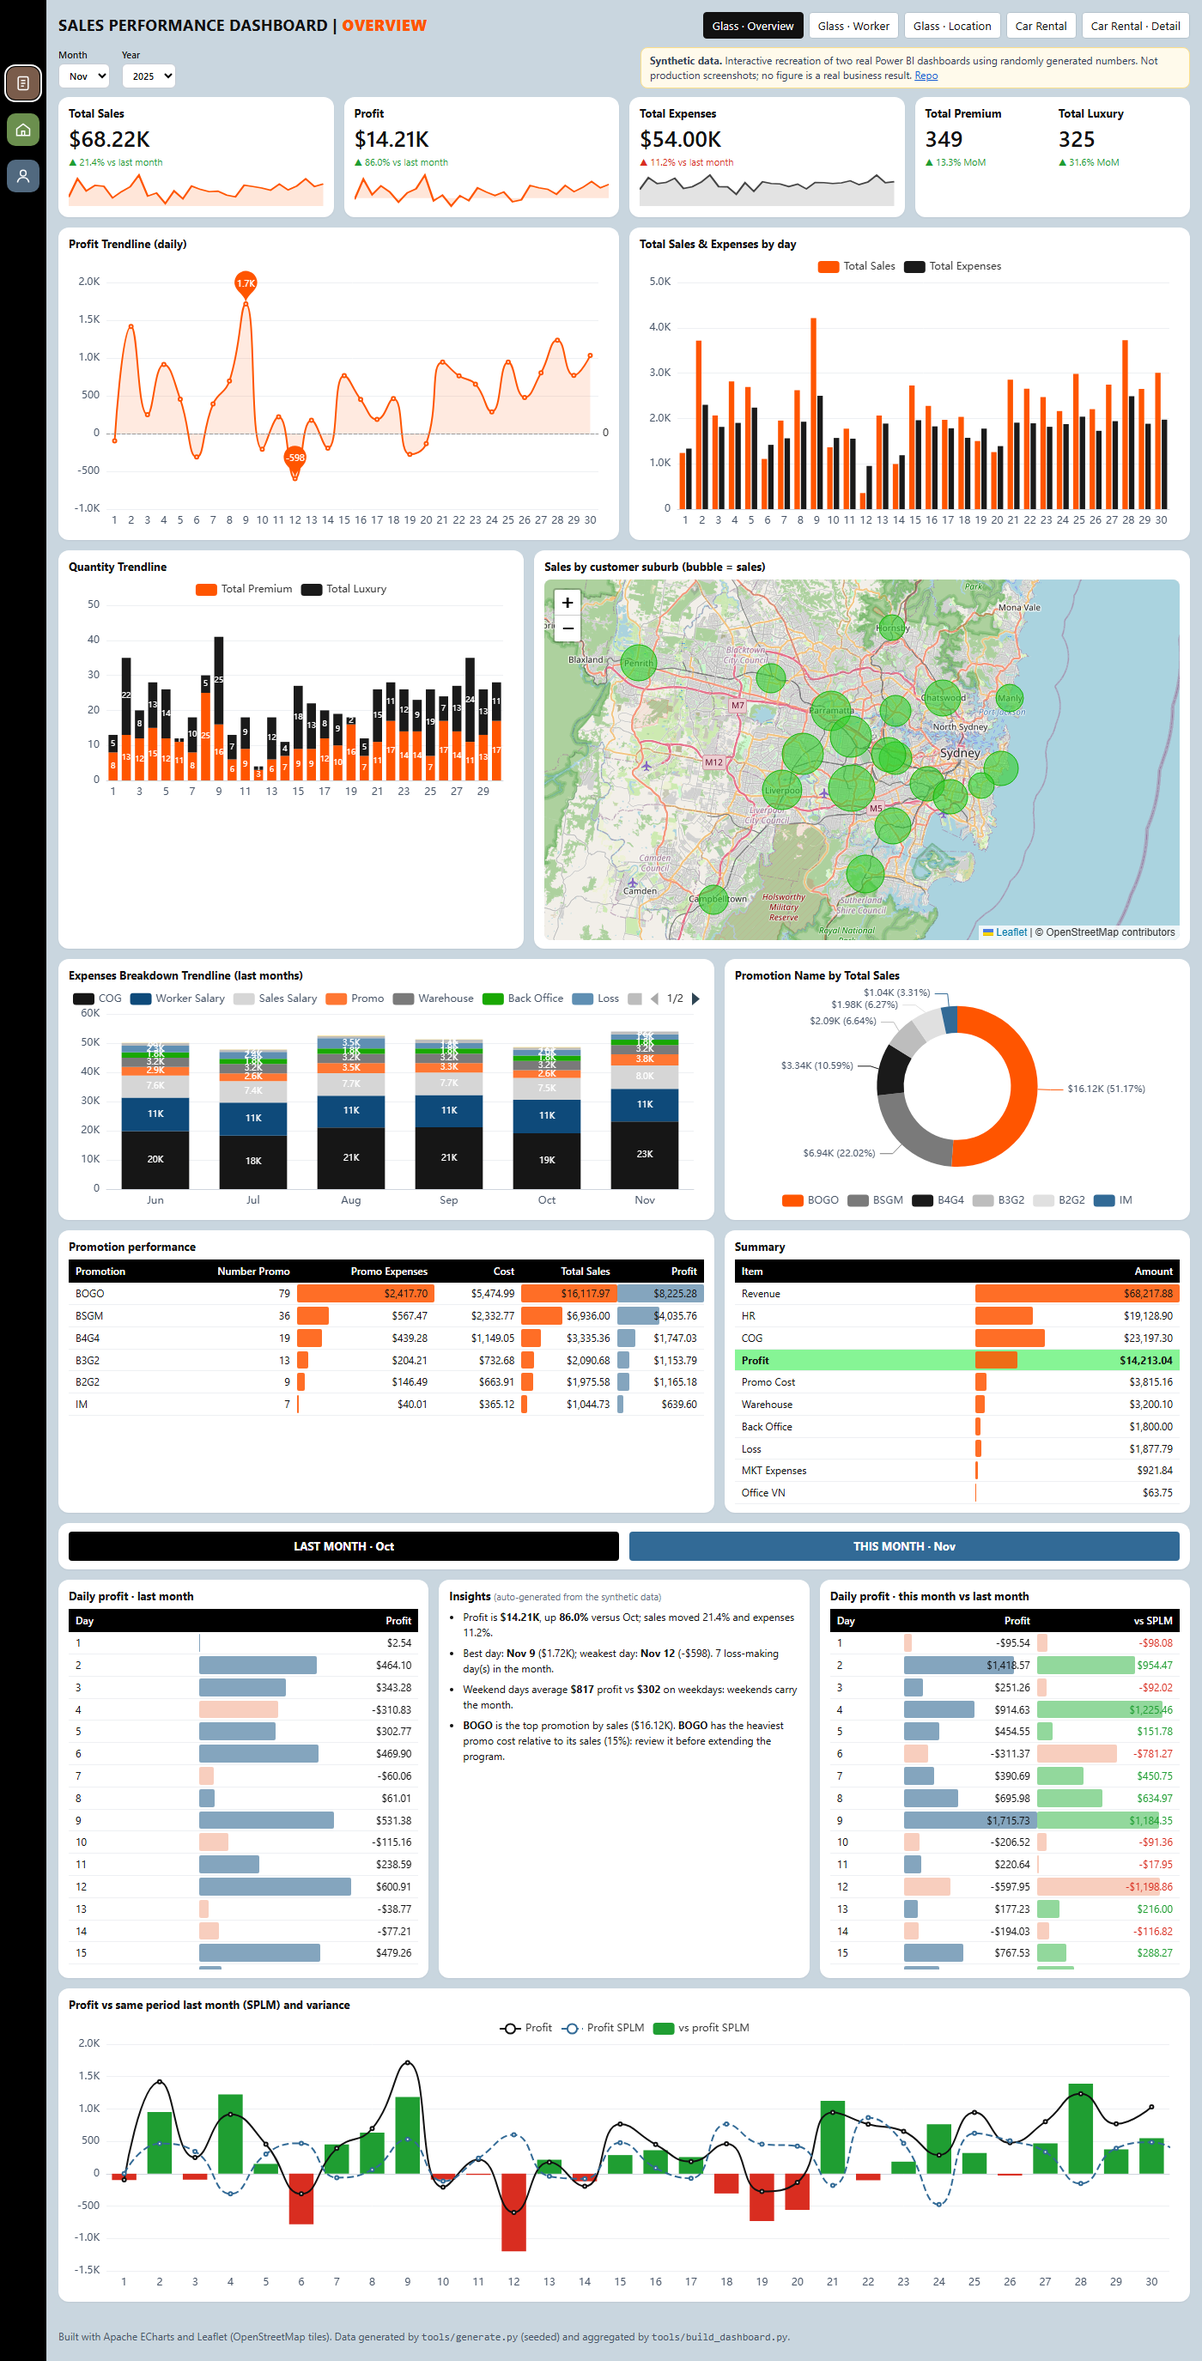
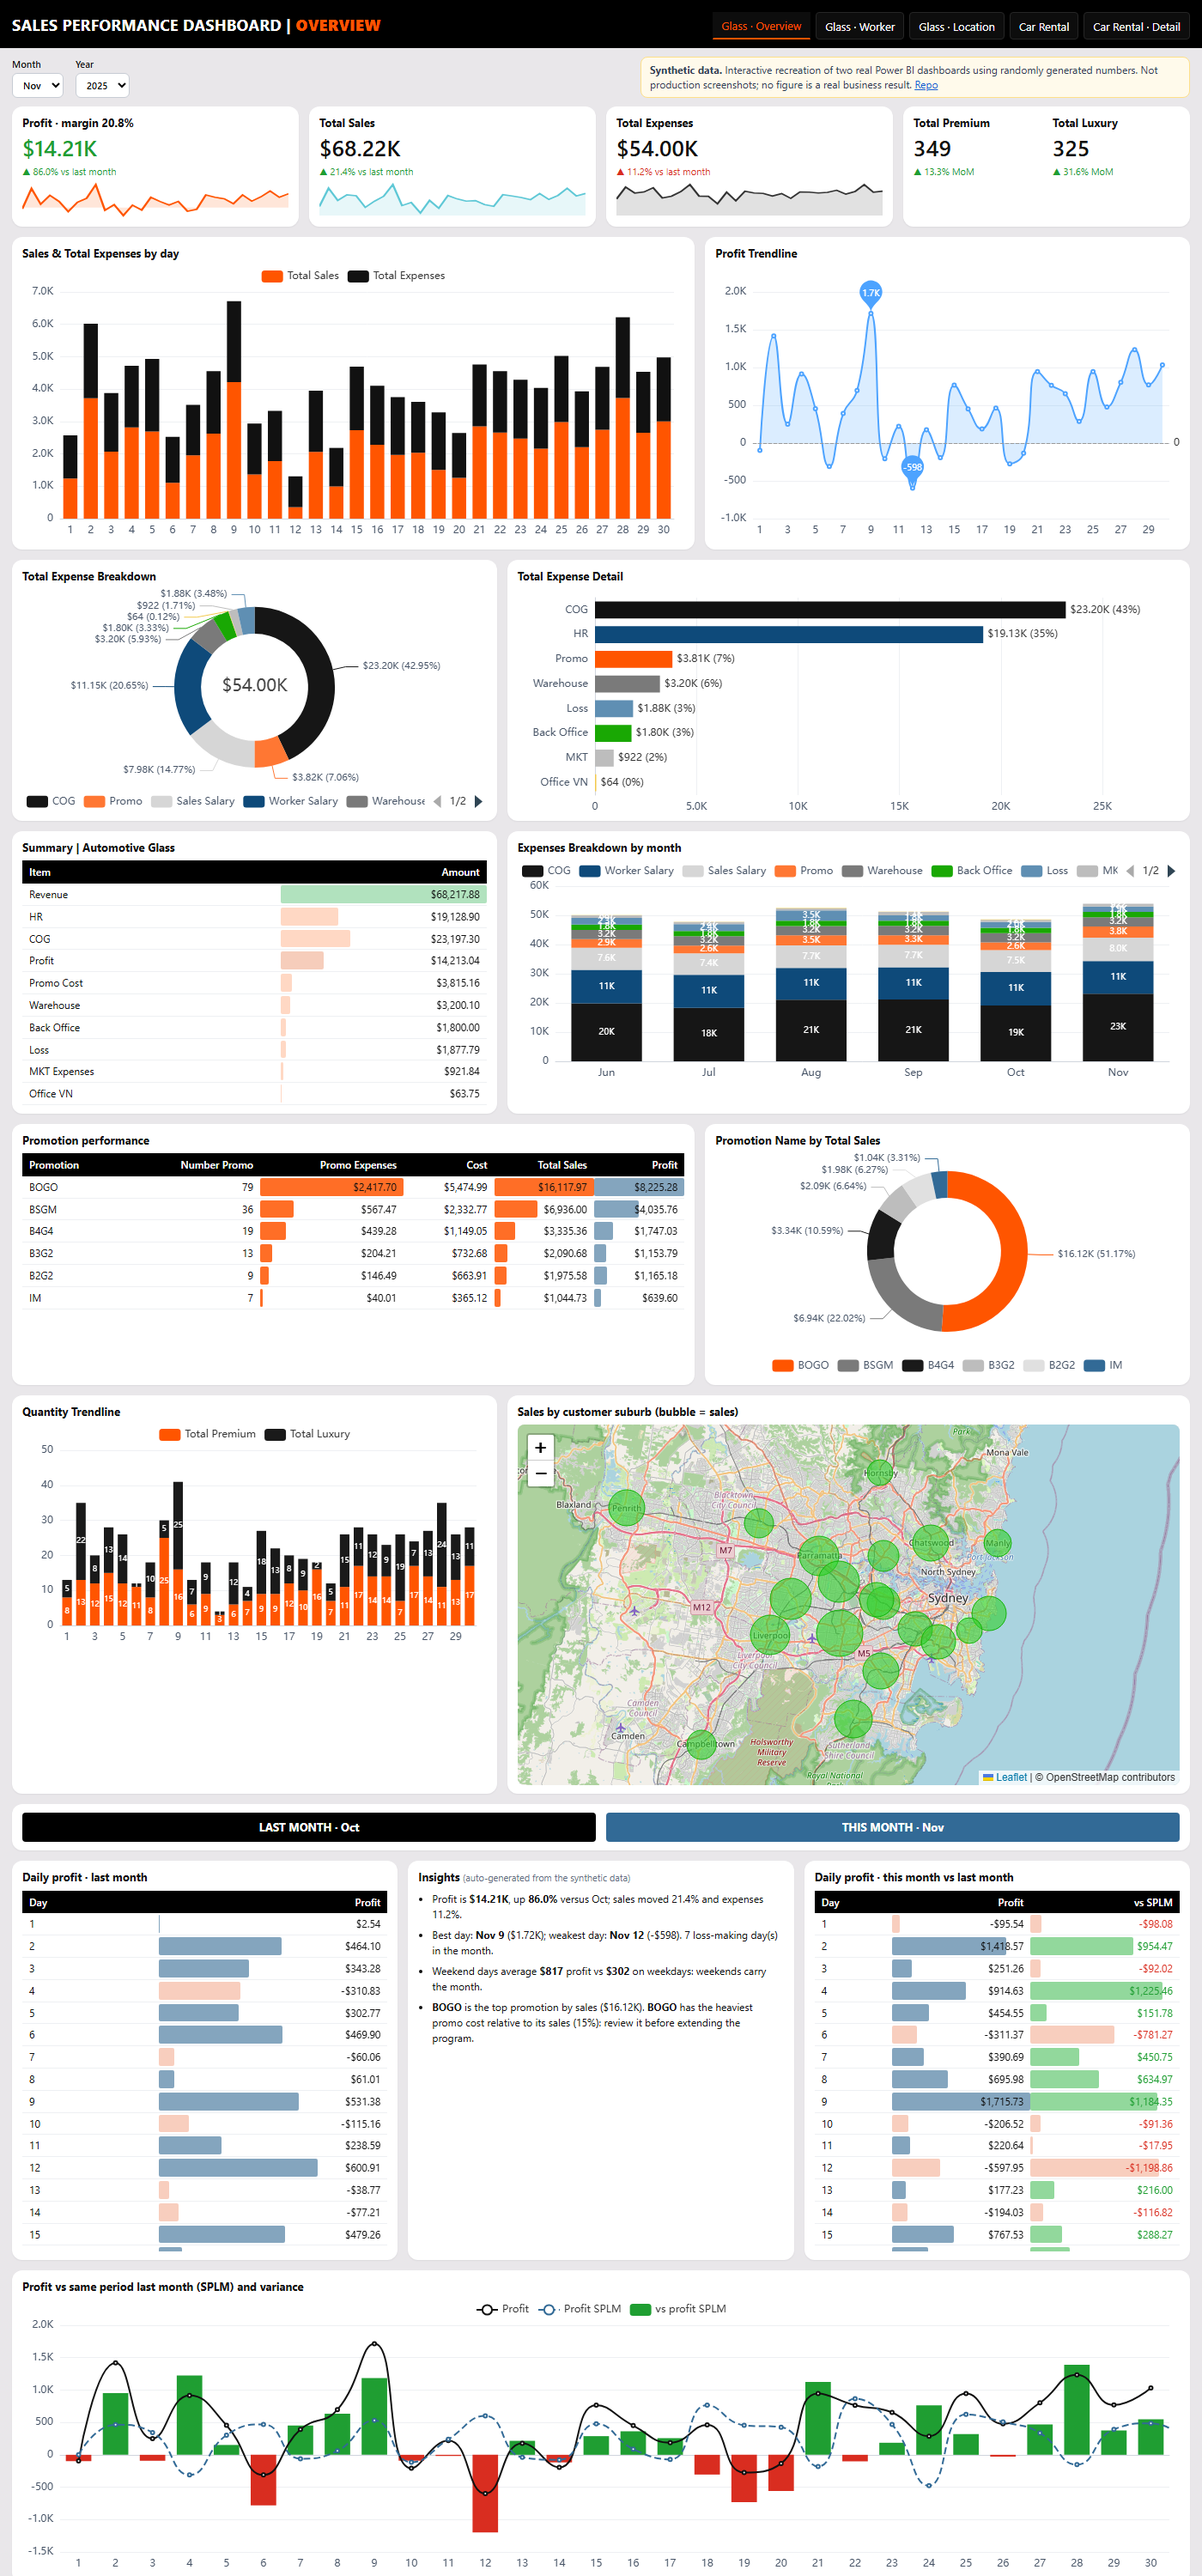
Restyle glass dashboard to the car rental standard (header, background, layout, charts)

diff --git a/docs/index.html b/docs/index.html
@@ -7,8 +7,7 @@
 <meta name="description" content="Interactive recreations of two Power BI dashboards (automotive glass service and car rental) built on synthetic data.">
 <link rel="stylesheet" href="https://cdnjs.cloudflare.com/ajax/libs/leaflet/1.9.4/leaflet.min.css">
 <style>
-  :root{--ink:#111;--muted:#667085;--line:#e4e7ec;--card:#fff;--accent:#ff5500;--page:#c9d6df;--good:#1f9e32;--bad:#d92d20}
-  body.t-car{--accent:#a666b0;--page:#e9e7ea}
+  :root{--ink:#111;--muted:#667085;--line:#e4e7ec;--card:#fff;--accent:#ff5500;--page:#e9e7ea;--good:#1f9e32;--bad:#d92d20}
   *{box-sizing:border-box}
   body{margin:0;min-height:100vh;background:var(--page);color:var(--ink);font:13px/1.4 "Segoe UI",system-ui,-apple-system,Roboto,sans-serif}
   .top{background:#000;color:#fff;padding:14px 14px 10px;display:flex;flex-wrap:wrap;gap:10px;align-items:center;justify-content:space-between}
@@ -18,16 +17,8 @@
   .nav button{background:#000;color:#fff;border:1px solid #333;border-radius:4px;padding:6px 10px;font:600 12px inherit;font-family:inherit;cursor:pointer}
   .nav button[aria-selected="true"]{color:var(--accent);border-color:var(--accent)}
   body.t-car{--accent:#c9a0dc}
-  body.t-car .nav button{background:#0d0d0d;border-color:#262626;font-size:13px}
-  body.t-car .nav button[aria-selected="true"]{border-color:#0d0d0d;border-bottom:2px solid #c9a0dc;border-radius:0}
-  .side{display:none}
-  body.t-glass .side{display:flex;position:fixed;left:0;top:0;bottom:0;width:54px;background:#000;flex-direction:column;align-items:center;gap:16px;padding-top:78px;z-index:5}
-  .side button{width:38px;height:38px;border-radius:10px;border:0;cursor:pointer;display:grid;place-items:center;padding:0}
-  .side button[aria-selected="true"]{outline:2px solid #fff;outline-offset:1px}
-  body.t-glass .top,body.t-glass .bar,body.t-glass .wrap,body.t-glass footer{margin-left:54px}
-  body.t-glass .top{background:transparent;color:#111;padding:14px 14px 0}
-  body.t-glass .nav button{background:#fff;color:#111;border-color:#b5c3cd}
-  body.t-glass .nav button[aria-selected="true"]{background:#111;color:#fff;border-color:#111}
+  .nav button{background:#0d0d0d;border-color:#262626;font-size:13px}
+  .nav button[aria-selected="true"]{border-color:#0d0d0d;border-bottom:2px solid var(--accent);border-radius:0}
   .bar{display:flex;flex-wrap:wrap;gap:14px;align-items:end;justify-content:space-between;padding:10px 14px}
   .bar .f{display:flex;gap:14px;align-items:end}
   .bar label{display:flex;flex-direction:column;font-size:11px;font-weight:600;gap:2px}
@@ -63,11 +54,6 @@
 </style>
 </head>
 <body class="t-glass">
-<div class="side" role="tablist" aria-label="Glass pages">
-  <button data-p="g-over" title="Overview" style="background:#7a5c4b" aria-selected="true"><svg width="20" height="20" viewBox="0 0 24 24" fill="none" stroke="#fff" stroke-width="1.8"><rect x="5" y="3" width="14" height="18" rx="2"/><path d="M9 8h6M9 12h6M9 16h4"/></svg></button>
-  <button data-p="g-loc" title="Location" style="background:#6b8f4e" aria-selected="false"><svg width="20" height="20" viewBox="0 0 24 24" fill="none" stroke="#fff" stroke-width="1.8"><path d="M3 11l9-7 9 7v9H3z"/><path d="M10 20v-6h4v6"/></svg></button>
-  <button data-p="g-work" title="Worker" style="background:#51697f" aria-selected="false"><svg width="20" height="20" viewBox="0 0 24 24" fill="none" stroke="#fff" stroke-width="1.8"><circle cx="12" cy="8" r="4"/><path d="M4 21c1-5 4-7 8-7s7 2 8 7"/></svg></button>
-</div>
 <div class="top">
   <h1 id="title">SALES PERFORMANCE DASHBOARD | <b>OVERVIEW</b></h1>
   <div class="nav" role="tablist">
@@ -91,20 +77,24 @@
 <section id="g-over">
   <div class="grid" id="g-kpis"></div>
   <div class="grid">
-    <div class="card c6"><h2>Profit Trendline (daily)</h2><div class="ch t" id="g-profit"></div></div>
-    <div class="card c6"><h2>Total Sales &amp; Expenses by day</h2><div class="ch t" id="g-salesexp"></div></div>
+    <div class="card c7"><h2>Sales &amp; Total Expenses by day</h2><div class="ch t" id="g-salesexp"></div></div>
+    <div class="card c5"><h2>Profit Trendline</h2><div class="ch t" id="g-profit"></div></div>
+  </div>
+  <div class="grid">
+    <div class="card c5"><h2>Total Expense Breakdown</h2><div class="ch" id="g-expdonut"></div></div>
+    <div class="card c7"><h2>Total Expense Detail</h2><div class="ch" id="g-expdetail"></div></div>
+  </div>
+  <div class="grid">
+    <div class="card c5"><h2>Summary | Automotive Glass</h2><div id="g-summary"></div></div>
+    <div class="card c7"><h2>Expenses Breakdown by month</h2><div class="ch" id="g-expbr"></div></div>
+  </div>
+  <div class="grid">
+    <div class="card c7"><h2>Promotion performance</h2><div class="scroll" id="g-promotbl"></div></div>
+    <div class="card c5"><h2>Promotion Name by Total Sales</h2><div class="ch" id="g-promo"></div></div>
   </div>
   <div class="grid">
     <div class="card c5"><h2>Quantity Trendline</h2><div class="ch" id="g-qty"></div></div>
     <div class="card c7"><h2>Sales by customer suburb (bubble = sales)</h2><div class="map" id="g-map1"></div></div>
-  </div>
-  <div class="grid">
-    <div class="card c7"><h2>Expenses Breakdown Trendline (last months)</h2><div class="ch" id="g-expbr"></div></div>
-    <div class="card c5"><h2>Promotion Name by Total Sales</h2><div class="ch" id="g-promo"></div></div>
-  </div>
-  <div class="grid">
-    <div class="card c7"><h2>Promotion performance</h2><div class="scroll" id="g-promotbl"></div></div>
-    <div class="card c5"><h2>Summary</h2><div class="scroll" id="g-summary"></div></div>
   </div>
   <div class="grid">
     <div class="card c12"><div class="hdr2"><div class="a" id="g-lm">LAST MONTH</div><div class="b" id="g-tm">THIS MONTH</div></div></div>
@@ -261,15 +251,20 @@ function renderGOver(m){
   var c=gMonth(m),p=m>1?gMonth(m-1):null,days=[];for(var d=1;d<=dim(m);d++)days.push(d);
   var q1=sum(c.q1),q2=sum(c.q2);
   $("g-kpis").innerHTML=
-    kpi(3,"Total Sales",usd(c.S),p?dlt(c.S,p.S):null,true,c.s,ORANGE)+
-    kpi(3,"Profit",usd(c.P),p?dlt(c.P,p.P):null,true,c.p,ORANGE)+
-    kpi(3,"Total Expenses",usd(c.E),p?dlt(c.E,p.E):null,false,c.e,"#444")+
+    kpi(3,"Profit · margin "+(c.S?(c.P/c.S*100).toFixed(1):"0")+"%",'<span class="'+(c.P>=0?"up":"down")+'">'+usd(c.P)+"</span>",p?dlt(c.P,p.P):null,true,c.p,ORANGE)+
+    kpi(3,"Total Sales",usd(c.S),p?dlt(c.S,p.S):null,true,c.s,"#5fc8d6")+
+    kpi(3,"Total Expenses",usd(c.E),p?dlt(c.E,p.E):null,false,c.e,"#333")+
     '<div class="card kpi c3 two"><div><div class="l">Total Premium</div><div class="v">'+q1+"</div>"+badge(p?dlt(q1,sum(p.q1)):null,true,"MoM")+"</div><div><div class=\"l\">Total Luxury</div><div class=\"v\">"+q2+"</div>"+badge(p?dlt(q2,sum(p.q2)):null,true,"MoM")+"</div></div>";
   opt("g-profit",{tooltip:{trigger:"axis",valueFormatter:function(v){return usd(v,true);}},grid:GR,xAxis:xcat(days),yAxis:yval(),
-    series:[{type:"line",smooth:true,data:c.p.map(function(v){return +v.toFixed(0);}),itemStyle:{color:ORANGE},areaStyle:{color:ORANGE,opacity:.12},markLine:{silent:true,symbol:"none",data:[{yAxis:0}],lineStyle:{color:"#999"}},
-      markPoint:{data:[{type:"max",name:"Best"},{type:"min",name:"Worst"}],symbolSize:44,label:{formatter:function(q){return kk(q.value);},fontSize:10,color:"#fff"},itemStyle:{color:ORANGE}}}]});
-  opt("g-salesexp",{tooltip:{trigger:"axis",valueFormatter:function(v){return usd(v,true);}},legend:{top:0},color:[ORANGE,BLACK],grid:GR,xAxis:xcat(days),yAxis:yval(),
-    series:[{name:"Total Sales",type:"bar",data:c.s.map(Math.round)},{name:"Total Expenses",type:"bar",data:c.e.map(Math.round)}]});
+    series:[{type:"line",smooth:true,data:c.p.map(function(v){return +v.toFixed(0);}),itemStyle:{color:"#4da3ff"},areaStyle:{color:"#4da3ff",opacity:.2},markLine:{silent:true,symbol:"none",data:[{yAxis:0}],lineStyle:{color:"#999"}},
+      markPoint:{data:[{type:"max",name:"Best"},{type:"min",name:"Worst"}],symbolSize:44,label:{formatter:function(q){return kk(q.value);},fontSize:10,color:"#fff"},itemStyle:{color:"#4da3ff"}}}]});
+  opt("g-salesexp",{tooltip:{trigger:"axis",valueFormatter:function(v){return usd(v,true);}},legend:{top:0},color:[ORANGE,"#111"],grid:GR,xAxis:xcat(days),yAxis:yval(),
+    series:[{name:"Total Sales",type:"bar",stack:"x",data:c.s.map(Math.round)},{name:"Total Expenses",type:"bar",stack:"x",data:c.e.map(Math.round)}]});
+  var ecm=GEC[m]||{},GC={COG:"#161616","Worker Salary":"#0e4a7a","Sales Salary":"#d6d6d6",Promo:"#ff7733",Warehouse:"#7a7a7a","Back Office":"#19a803",Loss:"#5f8fb3",MKT:"#bdbdbd","Office VN":"#f2c94c"};
+  donut("g-expdonut",Object.keys(ecm).map(function(k){return {name:k,value:+ecm[k].toFixed(2)};}),usd(c.E),GC);
+  var grp=[["HR",(ecm["Worker Salary"]||0)+(ecm["Sales Salary"]||0),"#0e4a7a"],["COG",ecm.COG||0,"#111"],["Promo",ecm.Promo||0,ORANGE],["Warehouse",ecm.Warehouse||0,"#7a7a7a"],["Back Office",ecm["Back Office"]||0,"#19a803"],["Loss",ecm.Loss||0,"#5f8fb3"],["MKT",ecm.MKT||0,"#bdbdbd"],["Office VN",ecm["Office VN"]||0,"#f2c94c"]].sort(function(a,b){return a[1]-b[1];});
+  opt("g-expdetail",{tooltip:{valueFormatter:function(v){return usd(v,true);}},grid:{left:90,right:90,top:10,bottom:20},xAxis:yval(),yAxis:{type:"category",data:grp.map(function(r){return r[0];}),axisLabel:{color:"#475467"},axisLine:AX.axisLine,axisTick:AX.axisTick},
+    series:[{type:"bar",data:grp.map(function(r){return {value:Math.round(r[1]),itemStyle:{color:r[2]}};}),label:{show:true,position:"right",formatter:function(q){return usd(q.value)+" ("+(q.value/(c.E||1)*100).toFixed(0)+"%)";}}}]});
   opt("g-qty",{tooltip:{trigger:"axis"},legend:{top:0},color:[ORANGE,BLACK],grid:GR,xAxis:xcat(days),yAxis:yval(),
     series:[{name:"Total Premium",type:"bar",stack:"q",data:c.q1,label:{show:true,color:"#fff",fontSize:9}},{name:"Total Luxury",type:"bar",stack:"q",data:c.q2,label:{show:true,color:"#fff",fontSize:9}}]});
   drawMap("g-map1",m);
@@ -282,7 +277,7 @@ function renderGOver(m){
     names.map(function(k){var o=pm[k];return {v:[k,o.n,o.p,o.c,o.s,o.s-o.c-o.p]};}));
   var ec=GEC[m]||{},hr=(ec["Worker Salary"]||0)+(ec["Sales Salary"]||0);
   var srows=[["Revenue",c.S],["HR",hr],["COG",ec.COG||0],["Profit",c.P],["Promo Cost",ec.Promo||0],["Warehouse",ec.Warehouse||0],["Back Office",ec["Back Office"]||0],["Loss",ec.Loss||0],["MKT Expenses",ec.MKT||0],["Office VN",ec["Office VN"]||0]];
-  $("g-summary").innerHTML=tbl([{t:"Item"},{t:"Amount",bar:ORANGE,f:function(v){return usd(v,true);}}],srows.map(function(r){return {v:r,cls:r[0]==="Profit"?"hl":""};}));
+  $("g-summary").innerHTML=tbl([{t:"Item"},{t:"Amount",bar:"#ffd1ba",f:function(v){return usd(v,true);}}],srows.map(function(r){return {v:r,bc:r[0]==="Revenue"?"#a3ddb3":r[0]==="Profit"?"#f5c4af":null};}));
   $("g-lm").textContent="LAST MONTH · "+(m>1?MN[m-2]:"-");$("g-tm").textContent="THIS MONTH · "+MN[m-1];
   var fmtv=function(v){return usd(v,true);};
   $("g-lmtbl").innerHTML=p?tbl([{t:"Day"},{t:"Profit",bar:"#6f95b3",f:fmtv}],p.p.map(function(v,i){return {v:[i+1,v]};})):"<p>No previous month.</p>";

diff --git a/projects/automotive-glass-service-powerbi/README.md b/projects/automotive-glass-service-powerbi/README.md
@@ -15,7 +15,7 @@ A car glass sales and installation business needed one place to monitor daily an
 | **Worker** | Per-staff total made vs previous month, % change, KPI achievement, commission, bonus and total salary |
 | **Location** | Map and ranking of sales by customer suburb |
 
-Design choices: Month/Year slicers, consistent orange / black palette, sparkline KPI cards, data bars inside tables, positive/negative variance colors, one insight box that turns the numbers into actions.
+Design choices: same layout standard as the Car Rental dashboard (black header band with page tabs, grey page background, sparkline KPI cards, expense donut + detail bars, summary table), orange / black accent palette, sparkline KPI cards, data bars inside tables, positive/negative variance colors, one insight box that turns the numbers into actions.
 
 ## Data model (star schema)
 `orders` (fact: date, suburb, product line, quantity, amount, promotion, promo expense, COGS, sales staff) · `expenses` (daily fact by category) · `staff_kpi` · `promotions` · `suburbs` · `calendar`
